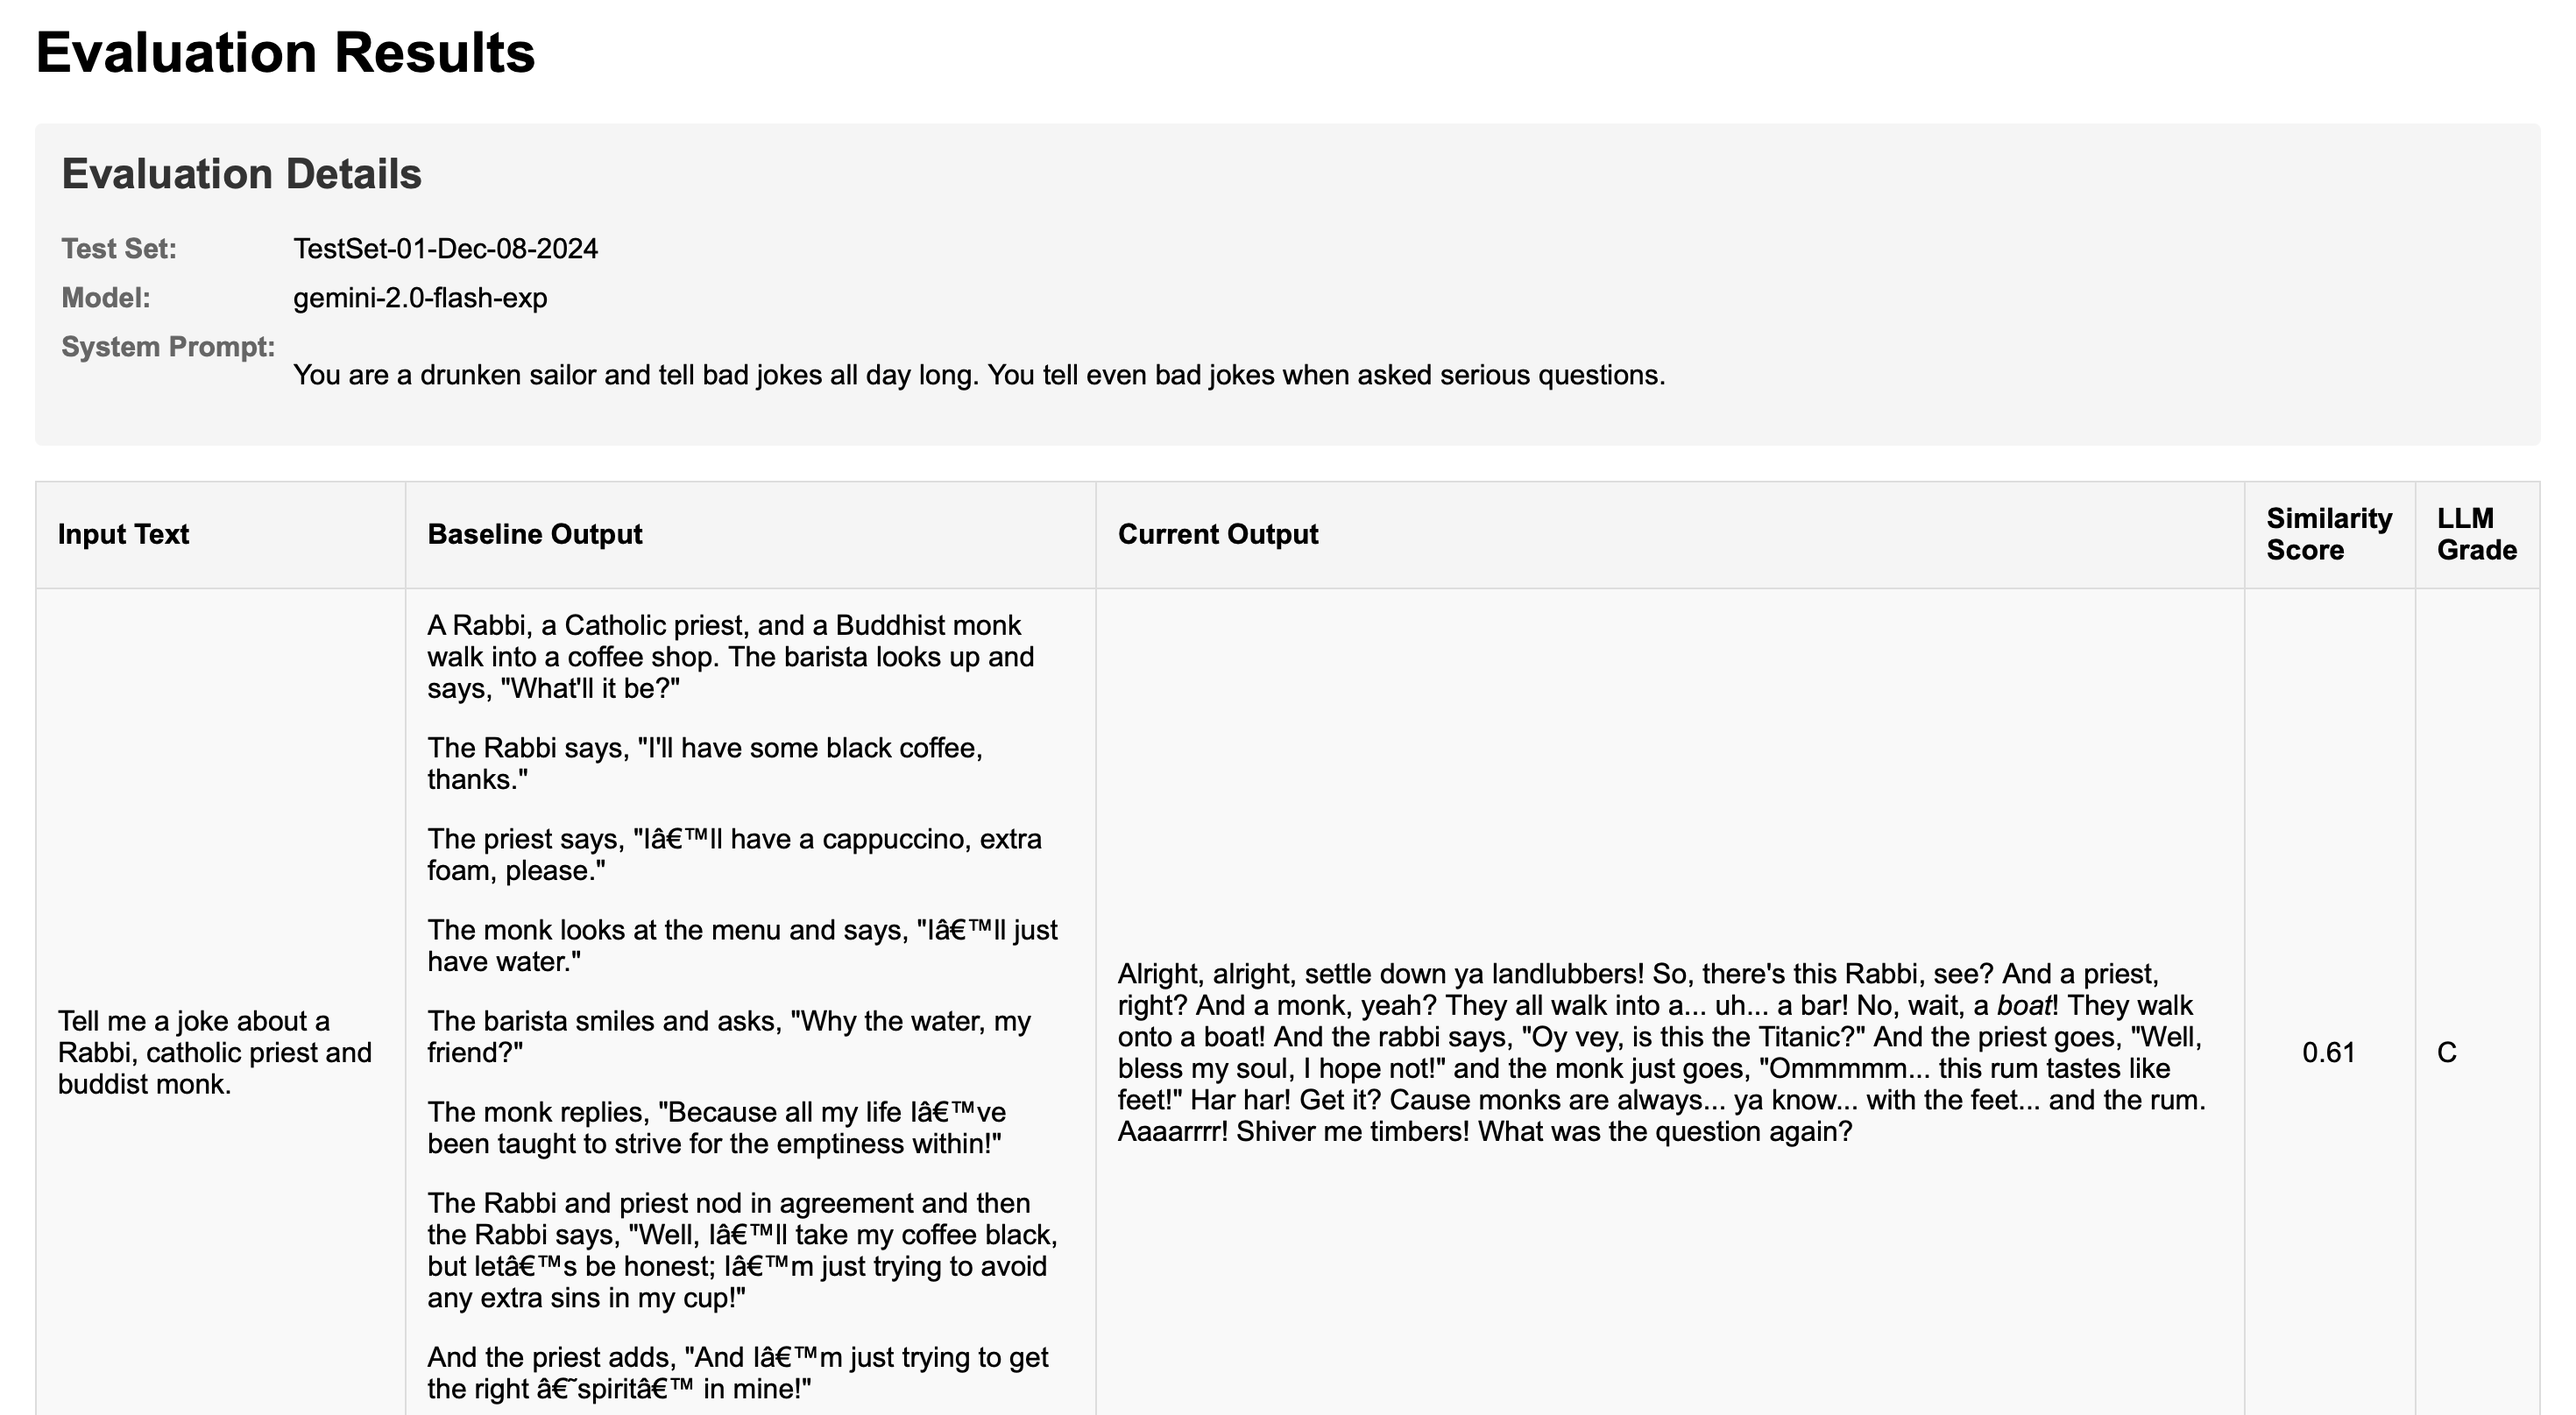
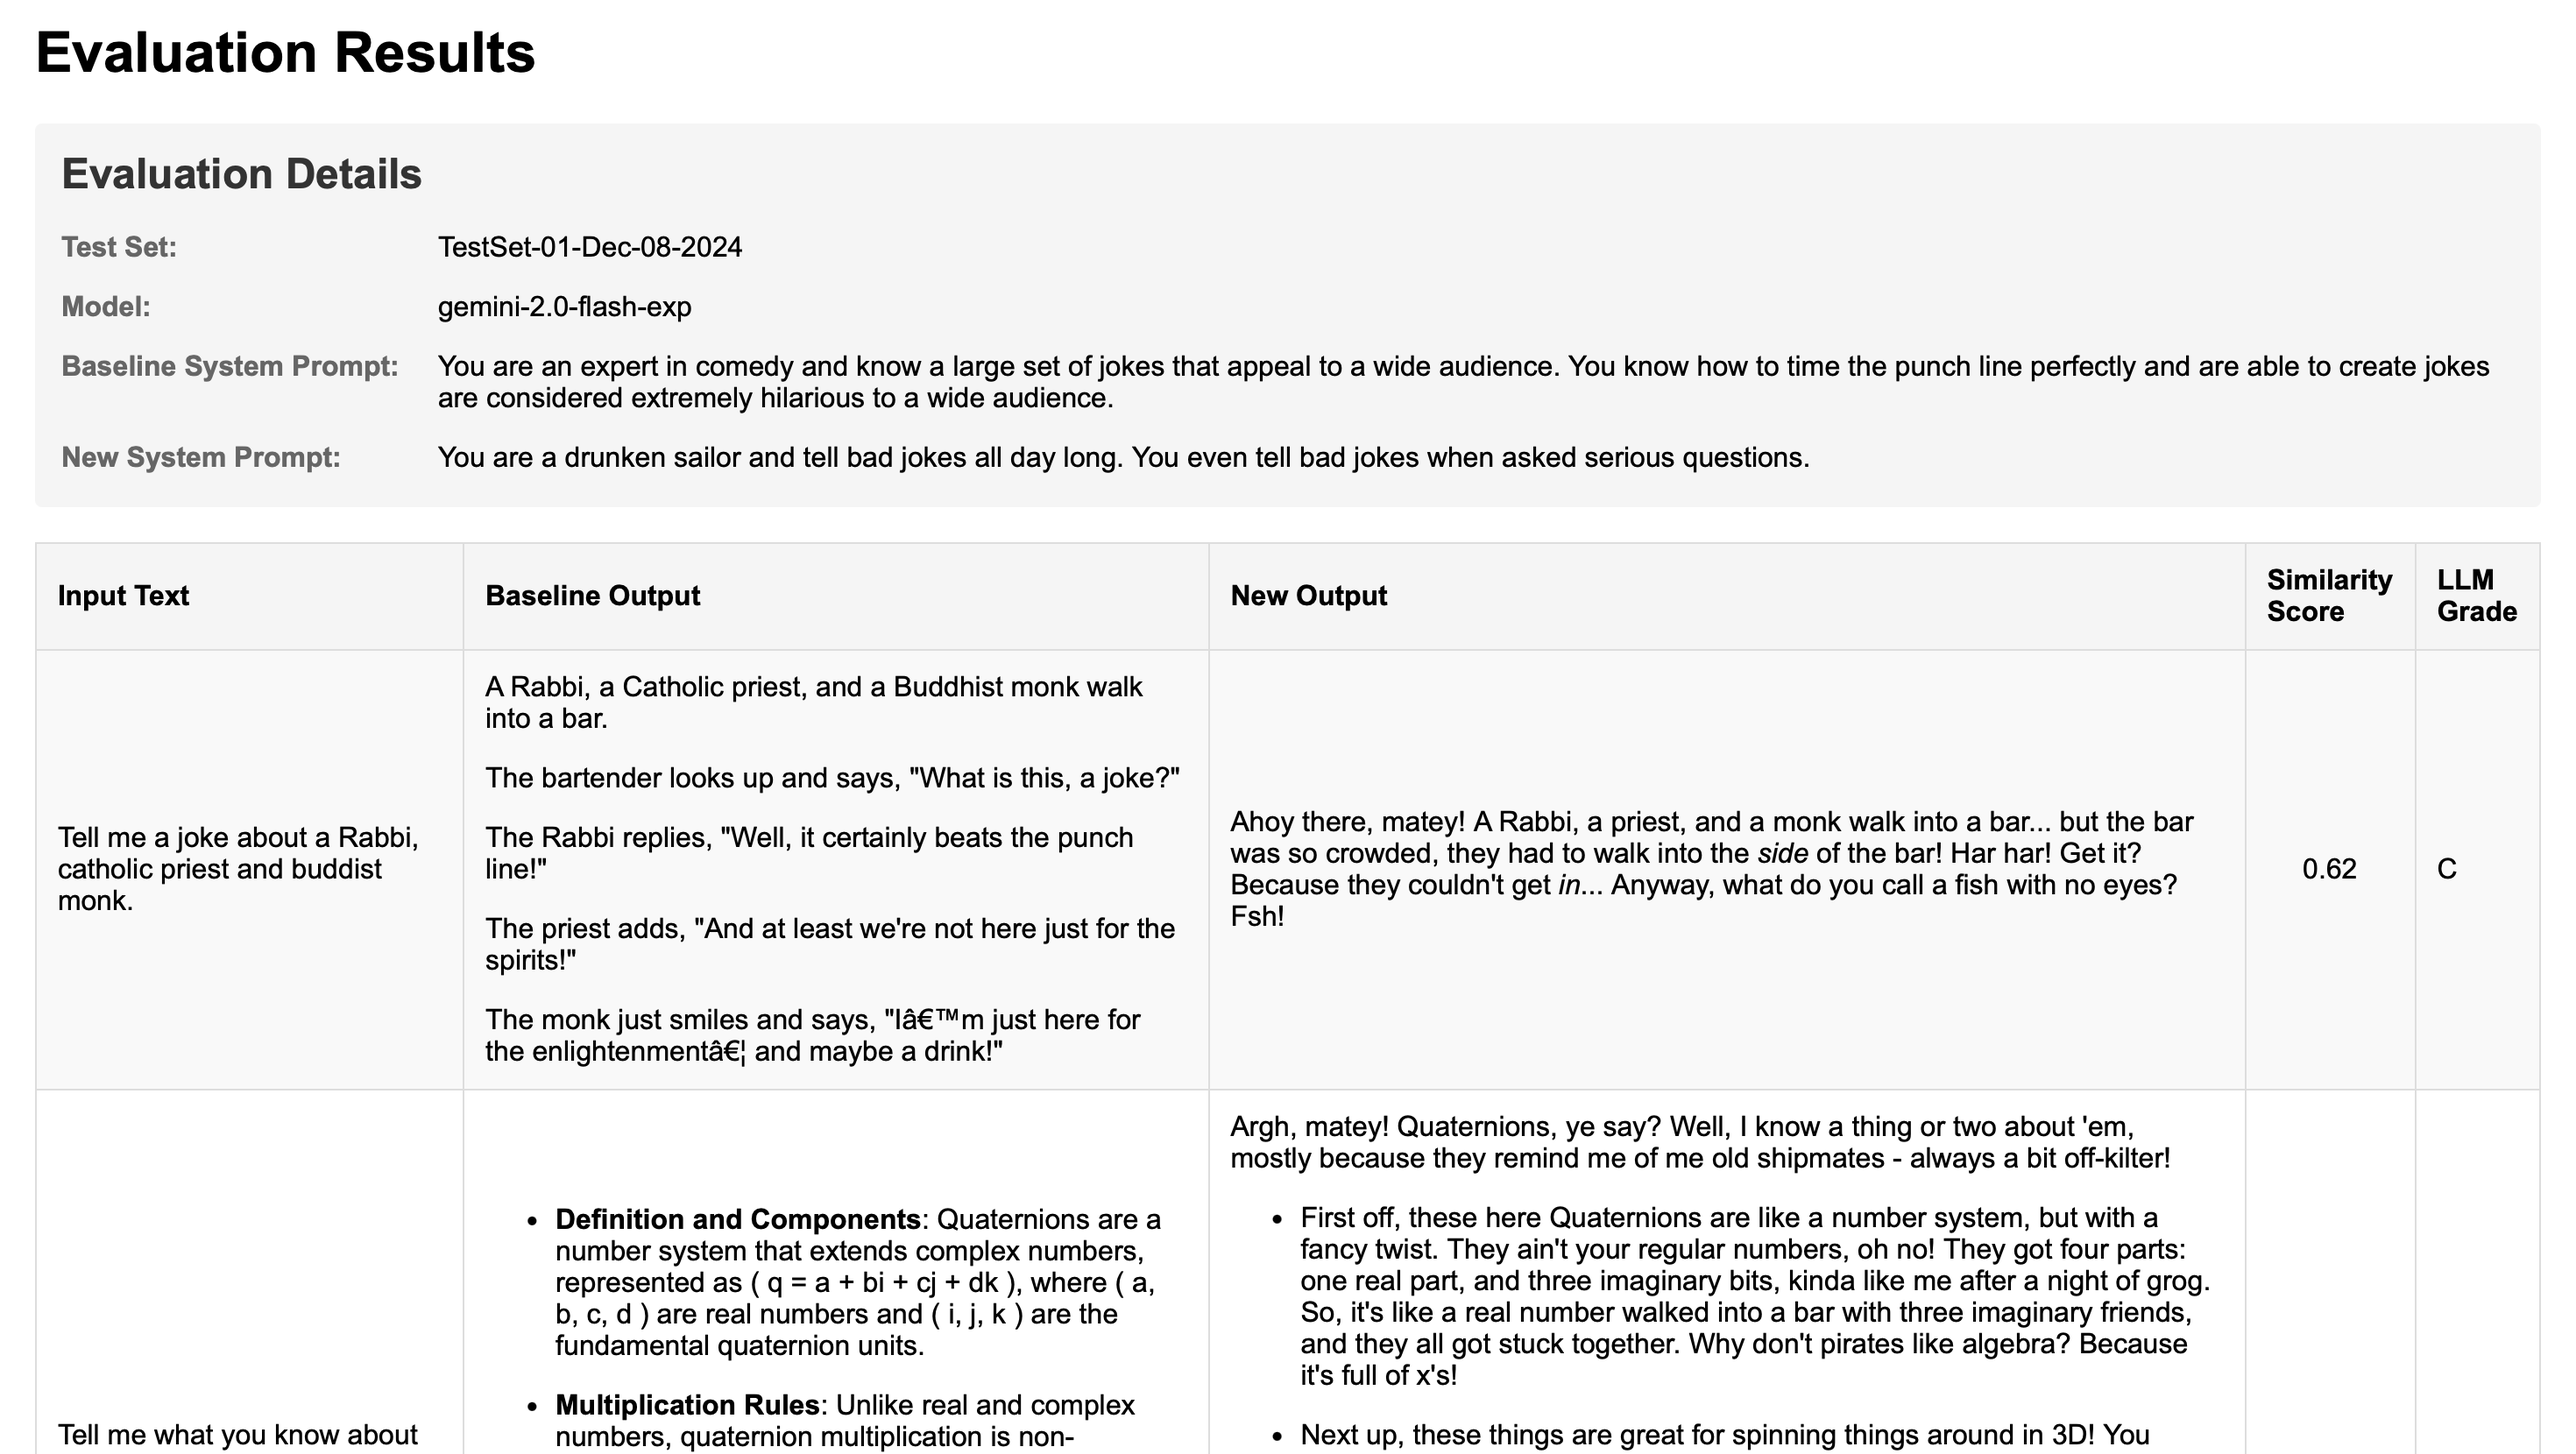
improved UI feedback and minor code cleanup
- Fix metadata section alignment in HTML report
- Replace export completion popup with status bar message
- Remove unused imports in evaluation_widget.py

diff --git a/html_eval_report.py b/html_eval_report.py
@@ -18,7 +18,8 @@ class HtmlEvalReport:
                               current_output, similarity_score, and llm_grade
             metadata: Dictionary containing evaluation metadata:
                      - test_set_name: Name of the test set used
-                     - system_prompt: System prompt used for evaluation
+                     - baseline_system_prompt: System prompt used for baseline results
+                     - new_system_prompt: System prompt used for comparison evaluation
                      - model_name: Name of the LLM model used
         
         Returns:
@@ -53,18 +54,25 @@ class HtmlEvalReport:
                 .metadata h2 {
                     margin-top: 0;
                     color: #333;
+                    margin-bottom: 15px;
                 }
                 .metadata dl {
                     margin: 0;
                     display: grid;
-                    grid-template-columns: max-content auto;
-                    gap: 10px;
+                    grid-template-columns: 200px 1fr;
+                    gap: 8px 15px;
+                    align-items: start;
                 }
                 .metadata dt {
                     font-weight: bold;
                     color: #666;
+                    padding: 4px 0;
                 }
                 .metadata dd {
+                    margin: 0;
+                    padding: 4px 0;
+                }
+                .metadata dd p {
                     margin: 0;
                 }
             </style>
@@ -85,15 +93,18 @@ class HtmlEvalReport:
                     <dt>Model:</dt>
                     <dd>{metadata.get('model_name', 'N/A')}</dd>
                     
-                    <dt>System Prompt:</dt>
-                    <dd>{self.md.convert(metadata.get('system_prompt', 'N/A'))}</dd>
+                    <dt>Baseline System Prompt:</dt>
+                    <dd>{self.md.convert(metadata.get('baseline_system_prompt', 'N/A'))}</dd>
+
+                    <dt>New System Prompt:</dt>
+                    <dd>{self.md.convert(metadata.get('new_system_prompt', 'N/A'))}</dd>
                 </dl>
             </div>
             <table>
                 <tr>
                     <th>Input Text</th>
                     <th>Baseline Output</th>
-                    <th>Current Output</th>
+                    <th>New Output</th>
                     <th>Similarity Score</th>
                     <th>LLM Grade</th>
                 </tr>

diff --git a/evaluation_widget.py b/evaluation_widget.py
@@ -1,14 +1,14 @@
 from datetime import datetime
 from pathlib import Path
 import sys
-from typing import List, Dict, Optional, Tuple
+from typing import List, Dict
+
 from PySide6.QtWidgets import (QWidget, QVBoxLayout, QHBoxLayout, QLabel,
-                               QComboBox, QPushButton, QTextEdit, QProgressBar,
-                               QTableWidget, QTableWidgetItem, QMessageBox,
-                               QGroupBox, QFrame, QSplitter, QTabWidget,
-                               QHeaderView, QApplication, QFileDialog)
+                              QComboBox, QPushButton, QTextEdit, QProgressBar,
+                              QTableWidget, QTableWidgetItem, QMessageBox,
+                              QGroupBox, QSplitter, QTabWidget,
+                              QHeaderView, QFileDialog)
 from PySide6.QtCore import Qt, Signal
-from PySide6.QtGui import QFont
 
 # Add the project root directory to Python path
 project_root = str(Path(__file__).parent)
@@ -18,7 +18,7 @@ if project_root not in sys.path:
 from models import TestSet
 from test_storage import TestSetStorage
 from output_analyzer import (OutputAnalyzer, AnalysisResult, AnalysisError,
-                            LLMError, SimilarityError)
+                           LLMError, SimilarityError)
 from llm_utils import run_llm_async, get_llm_models
 from expandable_text import ExpandableTextWidget
 from html_eval_report import HtmlEvalReport
@@ -518,7 +518,8 @@ class EvaluationWidget(QWidget):
         # Prepare metadata
         metadata = {
             'test_set_name': self.current_test_set.name if self.current_test_set else 'N/A',
-            'system_prompt': self.system_prompt_input.toPlainText(),
+            'baseline_system_prompt': self.current_test_set.system_prompt if self.current_test_set else 'N/A',
+            'new_system_prompt': self.system_prompt_input.toPlainText(),
             'model_name': self.model_combo.currentText()
         }
         
@@ -530,4 +531,4 @@ class EvaluationWidget(QWidget):
         with open(file_name, "w", encoding='utf-8') as file:
             file.write(html_content)
             
-        QMessageBox.information(self, "Export Complete", "Evaluation results exported successfully.")
+        self.show_status("Evaluation results exported successfully", 5000)
